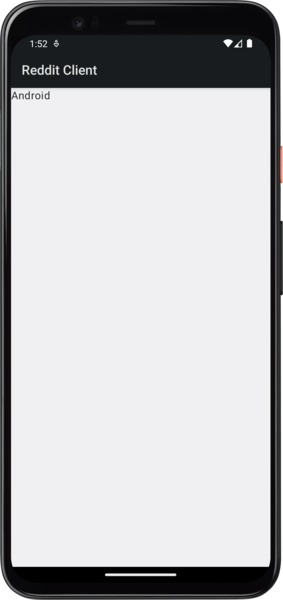
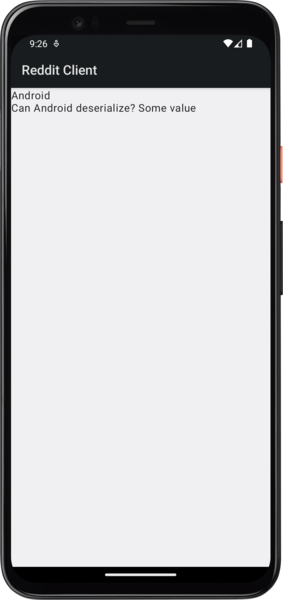
Include Kotlin Serialization library and do a small test on both platforms

diff --git a/android/src/main/kotlin/net/rafaeltoledo/reddit/android/ui/MainActivity.kt b/android/src/main/kotlin/net/rafaeltoledo/reddit/android/ui/MainActivity.kt
@@ -6,6 +6,7 @@ import androidx.activity.compose.setContent
 import androidx.compose.material.MaterialTheme
 import androidx.compose.material.Text
 import net.rafaeltoledo.reddit.Platform
+import net.rafaeltoledo.reddit.SerializationTest
 
 class MainActivity : ComponentActivity() {
 
@@ -14,7 +15,7 @@ class MainActivity : ComponentActivity() {
 
     setContent {
       MaterialTheme {
-        Text(text = Platform().name())
+        Text(text = "${Platform().name()}\n${SerializationTest().canWeSerialize()}")
       }
     }
   }

diff --git a/shared/src/commonMain/kotlin/net/rafaeltoledo/reddit/SerializationTest.kt b/shared/src/commonMain/kotlin/net/rafaeltoledo/reddit/SerializationTest.kt
@@ -1,0 +1,18 @@
+package net.rafaeltoledo.reddit
+
+import kotlinx.serialization.decodeFromString
+import kotlinx.serialization.json.Json
+import net.rafaeltoledo.reddit.data.SampleClass
+
+class SerializationTest {
+
+  fun canWeSerialize(): String {
+    val sampleJson = """
+      {"value": "Some value"}
+      """
+
+    val data: SampleClass = Json.decodeFromString(sampleJson)
+
+    return "Can ${Platform().name()} deserialize? ${data.value}"
+  }
+}

diff --git a/ios/Reddit/ContentView.swift b/ios/Reddit/ContentView.swift
@@ -4,6 +4,9 @@ import SwiftUI
 struct ContentView: View {
 
   var body: some View {
-    Text(Platform().name())
+    VStack {
+      Text(Platform().name())
+      Text(SerializationTest().canWeSerialize())
+    }
   }
 }

diff --git a/shared/src/commonMain/kotlin/net/rafaeltoledo/reddit/data/SampleClass.kt b/shared/src/commonMain/kotlin/net/rafaeltoledo/reddit/data/SampleClass.kt
@@ -1,0 +1,8 @@
+package net.rafaeltoledo.reddit.data
+
+import kotlinx.serialization.Serializable
+
+@Serializable
+data class SampleClass(
+  val value: String,
+)

diff --git a/shared/src/commonMain/kotlin/net/rafaeltoledo/reddit/Platform.kt b/shared/src/commonMain/kotlin/net/rafaeltoledo/reddit/Platform.kt
@@ -1,6 +1,6 @@
 package net.rafaeltoledo.reddit
 
-expect class Platform {
+expect class Platform constructor() {
 
   fun name(): String
 }
